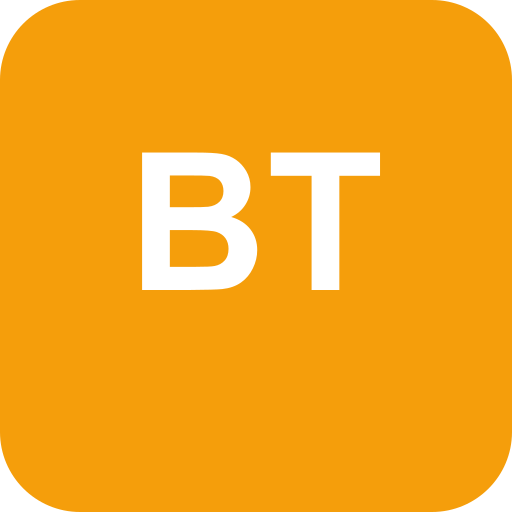
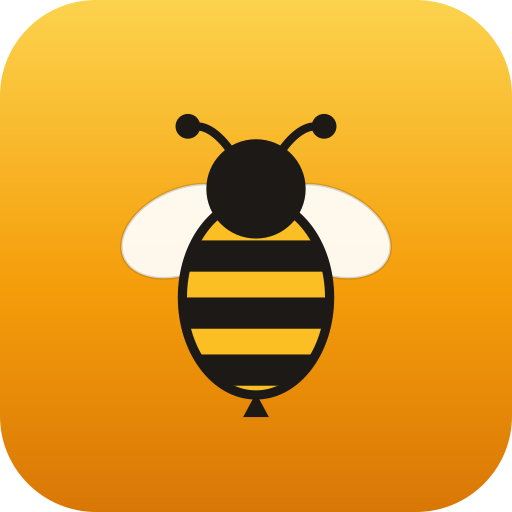
fix: mobile bottom nav overflow + complete installable PWA
Bottom nav: eight items now sit in an equal-width grid (short labels:
Yards/Recs/Gear) sized to the item count, with truncation and
env(safe-area-inset-bottom) padding so it clears the iOS home indicator.
Main content padding and the bulk action bar offset track the same
safe-area math.

PWA: root layout gains viewport (theme-color, viewport-fit=cover) and
appleWebApp/manifest/icon metadata; manifest enriched (id, scope,
maskable icon, orientation, categories); real bee/amber icons generated
at 192/512/maskable-512/apple-180. Install prompt now detects
already-installed, keeps the Chrome/Android flow, and adds iOS
Add-to-Home-Screen instructions, themed with tokens.

Critical fix: auth middleware was 307-redirecting the icon PNGs, so the
OS could not fetch them during install — icons/manifest/sw are now
explicitly public while /api/photos stays protected.

diff --git a/src/components/pwa/install-prompt.tsx b/src/components/pwa/install-prompt.tsx
@@ -1,95 +1,119 @@
 "use client";
 
 import { useEffect, useState } from "react";
-import { X } from "lucide-react";
+import { X, Share, Plus } from "lucide-react";
+import { Button } from "@/components/ui/button";
 
 interface BeforeInstallPromptEvent extends Event {
   prompt(): Promise<void>;
   userChoice: Promise<{ outcome: "accepted" | "dismissed" }>;
 }
 
+const DISMISS_KEY = "pwa-install-dismissed";
+
+function isStandalone(): boolean {
+  if (typeof window === "undefined") return false;
+  return (
+    window.matchMedia("(display-mode: standalone)").matches ||
+    // iOS Safari
+    (window.navigator as unknown as { standalone?: boolean }).standalone === true
+  );
+}
+
+function isIos(): boolean {
+  if (typeof window === "undefined") return false;
+  return (
+    /iphone|ipad|ipod/i.test(window.navigator.userAgent) ||
+    // iPadOS reports as Mac with a touch screen
+    (window.navigator.platform === "MacIntel" && window.navigator.maxTouchPoints > 1)
+  );
+}
+
 export function InstallPrompt() {
   const [deferredPrompt, setDeferredPrompt] =
     useState<BeforeInstallPromptEvent | null>(null);
   const [showPrompt, setShowPrompt] = useState(false);
+  const [iosHint, setIosHint] = useState(false);
 
   useEffect(() => {
-    // Check if user has already dismissed the prompt
-    const isDismissed = localStorage.getItem("pwa-install-dismissed");
-    if (isDismissed) return;
+    if (localStorage.getItem(DISMISS_KEY)) return;
+    if (isStandalone()) return; // already installed
 
     const handler = (e: Event) => {
-      // Prevent the mini-infobar from appearing on mobile
       e.preventDefault();
-      // Stash the event so it can be triggered later
       setDeferredPrompt(e as BeforeInstallPromptEvent);
       setShowPrompt(true);
     };
-
     window.addEventListener("beforeinstallprompt", handler);
 
-    return () => {
-      window.removeEventListener("beforeinstallprompt", handler);
-    };
+    // iOS Safari never fires beforeinstallprompt — show manual instructions.
+    if (isIos()) {
+      setIosHint(true);
+      setShowPrompt(true);
+    }
+
+    return () => window.removeEventListener("beforeinstallprompt", handler);
   }, []);
 
   const handleInstallClick = async () => {
     if (!deferredPrompt) return;
-
-    // Show the install prompt
     await deferredPrompt.prompt();
-
-    // Wait for the user to respond to the prompt
-    const { outcome } = await deferredPrompt.userChoice;
-
-    console.log(`User response to the install prompt: ${outcome}`);
-
-    // Clear the deferredPrompt
+    await deferredPrompt.userChoice;
     setDeferredPrompt(null);
     setShowPrompt(false);
   };
 
   const handleDismiss = () => {
-    localStorage.setItem("pwa-install-dismissed", "true");
+    localStorage.setItem(DISMISS_KEY, "true");
     setShowPrompt(false);
   };
 
   if (!showPrompt) return null;
 
   return (
-    <div className="fixed bottom-4 left-4 right-4 md:left-auto md:right-4 md:w-96 bg-white dark:bg-gray-800 rounded-lg shadow-lg border border-gray-200 dark:border-gray-700 p-4 z-50 animate-in slide-in-from-bottom-5">
+    <div className="fixed bottom-[calc(3.5rem+env(safe-area-inset-bottom)+0.5rem)] left-4 right-4 md:bottom-4 md:left-auto md:right-4 md:w-96 z-50 rounded-lg border bg-card p-4 shadow-lg animate-in slide-in-from-bottom-5">
       <div className="flex items-start justify-between gap-3">
         <div className="flex-1">
-          <div className="flex items-center gap-2 mb-2">
-            <span className="text-2xl">🐝</span>
-            <h3 className="font-semibold text-gray-900 dark:text-gray-100">
-              Install Beez Trackz
-            </h3>
+          <div className="mb-2 flex items-center gap-2">
+            <span className="text-2xl" aria-hidden>
+              🐝
+            </span>
+            <h3 className="font-semibold">Install Beez Trackz</h3>
           </div>
-          <p className="text-sm text-gray-600 dark:text-gray-400 mb-3">
-            Install our app for quick access to your beehive data, even offline!
-          </p>
+
+          {iosHint ? (
+            <p className="mb-3 text-sm text-muted-foreground">
+              Tap the Share button{" "}
+              <Share className="inline h-4 w-4 -mt-0.5" aria-label="Share" /> then{" "}
+              <span className="whitespace-nowrap font-medium text-foreground">
+                Add to Home Screen{" "}
+                <Plus className="inline h-3.5 w-3.5 -mt-0.5" aria-hidden />
+              </span>{" "}
+              to install the app.
+            </p>
+          ) : (
+            <p className="mb-3 text-sm text-muted-foreground">
+              Install for quick access to your hives — works offline, too.
+            </p>
+          )}
+
           <div className="flex gap-2">
-            <button
-              onClick={handleInstallClick}
-              className="px-4 py-2 bg-amber-500 hover:bg-amber-600 text-white rounded-md text-sm font-medium transition-colors"
-            >
-              Install
-            </button>
-            <button
-              onClick={handleDismiss}
-              className="px-4 py-2 bg-gray-100 hover:bg-gray-200 dark:bg-gray-700 dark:hover:bg-gray-600 text-gray-700 dark:text-gray-300 rounded-md text-sm font-medium transition-colors"
-            >
-              Not now
-            </button>
+            {!iosHint && (
+              <Button size="sm" onClick={handleInstallClick}>
+                Install
+              </Button>
+            )}
+            <Button size="sm" variant="outline" onClick={handleDismiss}>
+              {iosHint ? "Got it" : "Not now"}
+            </Button>
           </div>
         </div>
         <button
           onClick={handleDismiss}
-          className="text-gray-400 hover:text-gray-600 dark:hover:text-gray-200 transition-colors"
+          className="text-muted-foreground transition-colors hover:text-foreground"
           aria-label="Close"
         >
-          <X className="w-5 h-5" />
+          <X className="h-5 w-5" />
         </button>
       </div>
     </div>

diff --git a/src/app/layout.tsx b/src/app/layout.tsx
@@ -1,4 +1,4 @@
-import type { Metadata } from 'next';
+import type { Metadata, Viewport } from 'next';
 import { Geist, Geist_Mono } from 'next/font/google';
 import './globals.css';
 import { ThemeProvider } from '@/components/theme/theme-provider';
@@ -14,8 +14,40 @@ const geistMono = Geist_Mono({
 });
 
 export const metadata: Metadata = {
-  title: 'Beez Trackz',
+  applicationName: 'Beez Trackz',
+  title: {
+    default: 'Beez Trackz',
+    template: '%s · Beez Trackz',
+  },
   description: 'Self-hosted beekeeping management application',
+  // Next auto-injects the <link rel="manifest"> from app/manifest.ts;
+  // naming it keeps the reference explicit.
+  manifest: '/manifest.webmanifest',
+  appleWebApp: {
+    capable: true,
+    statusBarStyle: 'default',
+    title: 'Beez Trackz',
+  },
+  formatDetection: { telephone: false },
+  icons: {
+    icon: [
+      { url: '/icon-192.png', sizes: '192x192', type: 'image/png' },
+      { url: '/icon-512.png', sizes: '512x512', type: 'image/png' },
+    ],
+    apple: [{ url: '/apple-icon.png', sizes: '180x180', type: 'image/png' }],
+  },
+};
+
+export const viewport: Viewport = {
+  width: 'device-width',
+  initialScale: 1,
+  // Let content extend under the notch / home indicator so our
+  // safe-area-inset padding can take effect.
+  viewportFit: 'cover',
+  themeColor: [
+    { media: '(prefers-color-scheme: light)', color: '#f59e0b' },
+    { media: '(prefers-color-scheme: dark)', color: '#0c0a09' },
+  ],
 };
 
 export default function RootLayout({

diff --git a/src/components/nav/bottom-nav.tsx b/src/components/nav/bottom-nav.tsx
@@ -8,20 +8,31 @@ export function BottomNav() {
   const pathname = usePathname();
 
   return (
-    <nav className="md:hidden fixed bottom-0 left-0 right-0 z-50 border-t bg-background">
-      <div className="flex items-center justify-around h-16">
+    <nav
+      className="md:hidden fixed bottom-0 left-0 right-0 z-50 border-t bg-background pb-[env(safe-area-inset-bottom)]"
+      aria-label="Primary"
+    >
+      <div
+        className="grid h-14"
+        style={{
+          gridTemplateColumns: `repeat(${navItems.length}, minmax(0, 1fr))`,
+        }}
+      >
         {navItems.map((item) => {
           const isActive = pathname.startsWith(item.href);
           return (
             <Link
               key={item.href}
               href={item.href}
-              className={`flex flex-col items-center gap-1 px-3 py-2 text-xs transition-colors ${
+              aria-current={isActive ? "page" : undefined}
+              className={`flex min-w-0 flex-col items-center justify-center gap-0.5 px-0.5 transition-colors ${
                 isActive ? "text-primary" : "text-muted-foreground"
               }`}
             >
-              <item.icon className="h-5 w-5" />
-              <span>{item.label}</span>
+              <item.icon className="h-5 w-5 shrink-0" />
+              <span className="max-w-full truncate text-[10px] leading-none">
+                {item.short}
+              </span>
             </Link>
           );
         })}

diff --git a/src/components/nav/nav-items.ts b/src/components/nav/nav-items.ts
@@ -1,12 +1,17 @@
 import { Home, TreePine, Bug, Crown, Bell, Droplets, Boxes, Settings } from "lucide-react";
 
+/**
+ * `label` is used by the desktop sidebar and the shortcut help dialog.
+ * `short` is the compact label for the mobile bottom nav, where eight
+ * items must share a narrow viewport.
+ */
 export const navItems = [
-  { label: "Home", href: "/dashboard", icon: Home },
-  { label: "Apiaries", href: "/apiaries", icon: TreePine },
-  { label: "Hives", href: "/hives", icon: Bug },
-  { label: "Queens", href: "/genealogy", icon: Crown },
-  { label: "Recommendations", href: "/recommendations", icon: Bell },
-  { label: "Honey", href: "/harvest", icon: Droplets },
-  { label: "Inventory", href: "/inventory", icon: Boxes },
-  { label: "Settings", href: "/settings", icon: Settings },
+  { label: "Home", short: "Home", href: "/dashboard", icon: Home },
+  { label: "Apiaries", short: "Yards", href: "/apiaries", icon: TreePine },
+  { label: "Hives", short: "Hives", href: "/hives", icon: Bug },
+  { label: "Queens", short: "Queens", href: "/genealogy", icon: Crown },
+  { label: "Recommendations", short: "Recs", href: "/recommendations", icon: Bell },
+  { label: "Honey", short: "Honey", href: "/harvest", icon: Droplets },
+  { label: "Inventory", short: "Gear", href: "/inventory", icon: Boxes },
+  { label: "Settings", short: "Settings", href: "/settings", icon: Settings },
 ] as const;

diff --git a/src/app/manifest.ts b/src/app/manifest.ts
@@ -2,16 +2,28 @@ import type { MetadataRoute } from "next";
 
 export default function manifest(): MetadataRoute.Manifest {
   return {
+    id: "/dashboard",
     name: "Beez Trackz",
-    short_name: "BeezTrackz",
-    description: "AI-first beekeeping management",
+    short_name: "Beez Trackz",
+    description: "Self-hosted beekeeping management application",
     start_url: "/dashboard",
+    scope: "/",
     display: "standalone",
+    orientation: "portrait",
+    lang: "en",
+    dir: "ltr",
     background_color: "#ffffff",
-    theme_color: "#f59e0b", // amber-500 for bee theme
+    theme_color: "#f59e0b", // amber-500, bee theme
+    categories: ["productivity", "utilities", "lifestyle"],
     icons: [
-      { src: "/icon-192.png", sizes: "192x192", type: "image/png" },
-      { src: "/icon-512.png", sizes: "512x512", type: "image/png" },
+      { src: "/icon-192.png", sizes: "192x192", type: "image/png", purpose: "any" },
+      { src: "/icon-512.png", sizes: "512x512", type: "image/png", purpose: "any" },
+      {
+        src: "/icon-maskable-512.png",
+        sizes: "512x512",
+        type: "image/png",
+        purpose: "maskable",
+      },
     ],
   };
 }

diff --git a/src/middleware.ts b/src/middleware.ts
@@ -45,5 +45,10 @@ export async function middleware(request: NextRequest) {
 }
 
 export const config = {
-  matcher: ["/((?!_next/static|_next/image|favicon.ico|manifest.webmanifest|sw.js).*)"],
+  // Public PWA assets (manifest, service worker, icons) must stay reachable
+  // without a session — the OS fetches them while logged out during install.
+  // Listed explicitly so /api/photos/*.jpg stays auth-protected.
+  matcher: [
+    "/((?!_next/static|_next/image|favicon.ico|favicon-32.png|manifest.webmanifest|sw.js|icon-192.png|icon-512.png|icon-maskable-512.png|apple-icon.png).*)",
+  ],
 };

diff --git a/src/components/bulk/bulk-action-bar.tsx b/src/components/bulk/bulk-action-bar.tsx
@@ -18,7 +18,7 @@ export function BulkActionBar({
 }) {
   if (count === 0) return null;
   return (
-    <div className="fixed inset-x-0 bottom-16 md:bottom-4 z-40 flex justify-center px-4 pointer-events-none">
+    <div className="fixed inset-x-0 bottom-[calc(3.5rem+env(safe-area-inset-bottom)+0.5rem)] md:bottom-4 z-40 flex justify-center px-4 pointer-events-none">
       <div className="pointer-events-auto flex flex-wrap items-center gap-2 rounded-lg border bg-card px-3 py-2 shadow-lg">
         <span className="text-sm font-medium tabular-nums px-1">
           {count} selected

diff --git a/src/app/(protected)/layout.tsx b/src/app/(protected)/layout.tsx
@@ -17,7 +17,7 @@ export default function ProtectedLayout({
     <ShortcutProvider>
     <div className="min-h-screen">
       <Sidebar />
-      <main className="md:pl-64 pb-16 md:pb-0">
+      <main className="md:pl-64 pb-[calc(3.5rem+env(safe-area-inset-bottom))] md:pb-0">
         <OfflineBanner />
         {children}
       </main>
